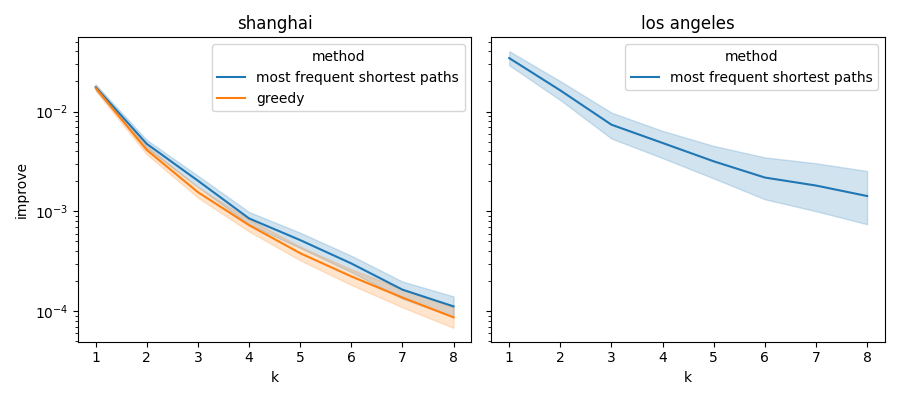
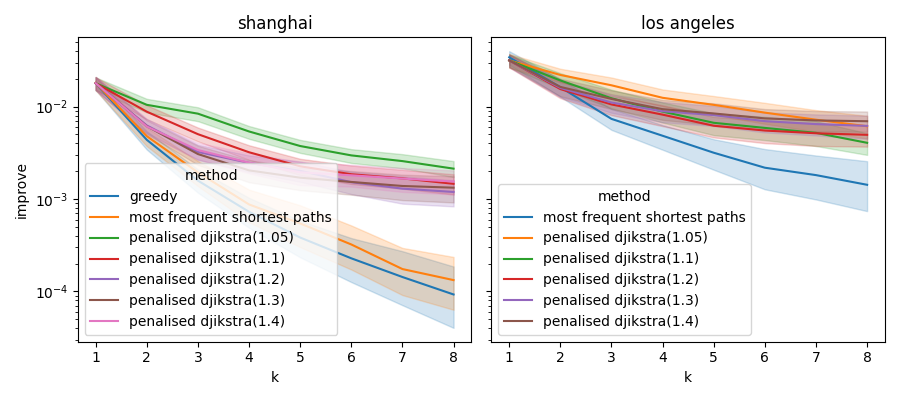
penalised djikstra

diff --git a/portfolio.py b/portfolio.py
@@ -171,15 +171,13 @@ class Portfolio:
         return pf
 
     @staticmethod
-    def greedy(graph: Graph, s, t, k=5, cache=CACHE):
+    def greedy(graph: Graph, s, t, k=5, cache=CACHE) -> Portfolio:
         METHOD = 'greedy'
         HASH = Portfolio._hash(Portfolio.greedy)
         cached = Portfolio._check_cache(graph, cache, METHOD, HASH, s, t, k, is_chain=True)
         if cached is not None:
             return cached
-        ps = []
-        for p in tqdm.tqdm(graph.my_all_paths(s, t)):
-            ps.append(p)
+        ps = list(graph.nx_all_paths(s, t))
         all_path_portfolio = Portfolio(graph, s, t, ps)
         all_path_costs = all_path_portfolio.costs()
         opt = all_path_costs.min(axis=1).mean()
@@ -213,6 +211,27 @@ class Portfolio:
         pf._to_cache(cache=cache)
         return pf
 
+    @staticmethod
+    def penalised_djikstra(graph: Graph, s, t, penalty=1.2, k=5, cache=CACHE) -> Portfolio:
+        METHOD = f'penalised djikstra({penalty})'
+        HASH = Portfolio._hash(Portfolio.penalised_djikstra)
+        cached = Portfolio._check_cache(graph, cache, METHOD, HASH, s, t, k, is_chain=True)
+        if cached is not None:
+            return cached
+        penalties = np.ones(graph.weights.shape[1])
+        portfolio = []
+        infos = []
+        for _ in range(k):
+            d, path = graph.djikstra(s, t, path=True, instance=None, penalties=penalties)
+            portfolio.append(path)
+            infos.append(f'{d:.3f}')
+            penalties[Path.to_integers(path)] *= penalty
+
+        pf = Portfolio(graph, s, t, portfolio, method=METHOD, infos=infos)
+        pf._impl_hash = HASH
+        pf._to_cache(cache=cache)
+        return pf
+
 if __name__ == "__main__":
     g = Graph.load(city='la')
 
@@ -232,7 +251,7 @@ if __name__ == "__main__":
     random.seed(55)
     print('='*50)
     done = set()
-    pbar = tqdm.tqdm(range(500))
+    pbar = tqdm.tqdm(range(1000))
     for i in pbar:
         u, v = 0, 0
         while (u == v) or (u, v) in done or g.djikstra(u, v) > 1e8:
@@ -242,7 +261,15 @@ if __name__ == "__main__":
         pbar.write(f'{u}-{v}', end=', ' if (i+1) % 10 != 0 else '\n')
         for k in range(8, 0, -1):
             # Portfolio.greedy(g, u, v, k=k, cache='./cache/random_pairs/')
-            Portfolio.most_frequent(g, u, v, k=k, cache='./cache/random_pairs/')
+            mf = Portfolio.most_frequent(g, u, v, k=k, cache='./cache/random_pairs/')
+            for lmb in [1.05, 1.1, 1.2, 1.3, 1.4]:
+                dj = Portfolio.penalised_djikstra(g, u, v, penalty=lmb, k=k, cache='./cache/random_pairs/')
+                dj.score()
+                dj._opt = mf._opt
+                dj._to_cache(cache="./cache/random_pairs/")
 
         done.add((u, v))
+
+    p = Portfolio.penalised_djikstra(g, 37, 17)
+    print(p)
 

diff --git a/graph.py b/graph.py
@@ -24,6 +24,7 @@ class Graph:
         self.out_arcs = [] # list of outgoing arcs (a in 0...m-1)
         self.in_arcs = []
         self.name = None
+        self.w_mean = None
 
     def build_out_in(self):
         self.out_arcs = []
@@ -53,6 +54,11 @@ class Graph:
     def __repr__(self):
         return f'<{self.__class__.__name__}({self.n}, {self.m}) at {hex(id(self))}>'
 
+    def mean_weights(self):
+        if self.w_mean is None:
+            self.w_mean = self.weights.mean()
+        return self.w_mean
+
     def floyd_warshall(self, instances='all'):
         if instances == 'all':
             distance = np.zeros((self.I, self.n, self.n))
@@ -77,9 +83,10 @@ class Graph:
 
         return distance
 
-    def djikstra(self, s, t=None, instance=0, path=False):
+    def djikstra(self, s, t=None, instance=0, path=False, penalties=None):
         """ returns distance array from s, if no t given, other wise dist(s, t)
-            if path is True it returns tuple with path(s) 
+            if path is True it returns tuple with path(s)
+            if instance = None is passed it takes the average weight
         """
         heap = heapdict()
         found = set()
@@ -112,7 +119,12 @@ class Graph:
                 neighbour = self.arcs[a][1]
                 if neighbour in found:
                     continue
-                w = self.weights.loc[instance, a]
+                if instance is None:
+                    w = self.mean_weights()[a]
+                else:
+                    w = self.weights.loc[instance, a]
+                if penalties is not None:
+                    w *= penalties[a]
 
                 if neighbour not in heap or heap[neighbour] > d + w:
                     heap[neighbour] = d + w

diff --git a/ratios.py b/ratios.py
@@ -5,16 +5,19 @@ import matplotlib.pyplot as plt
 if __name__ == "__main__":
     f, axs = plt.subplots(ncols=2, figsize=(9, 4), sharey=True, layout='tight')
     sh_rp = pd.read_csv('./cache/random_pairs/sh_portfolios.csv', index_col=0)
-    sh_rp.sort_values('method', ascending=False, inplace=True)
+    sh_rp.sort_values('method', inplace=True)
+    # sh_rp=sh_rp[sh_rp['method'] != 'greedy']
     # rp = pd.read_csv('./cache/sh_portfolios.csv', index_col=0)
     sh_rp['improve'] = sh_rp['factor'] - 1
     sns.lineplot(sh_rp, x='k', y='improve', hue='method', errorbar='ci', ax=axs[0])
+    # sns.lineplot(sh_rp, x='k', y='cost', hue='method', errorbar='ci', ax=axs[0])
     # axs[0].set_yscale('log')
     axs[0].set_title('shanghai')
     la_rp = pd.read_csv('./cache/random_pairs/la_portfolios.csv', index_col=0)
     # rp = pd.read_csv('./cache/sh_portfolios.csv', index_col=0)
     la_rp['improve'] = la_rp['factor'] - 1
     sns.lineplot(la_rp, x='k', y='improve', hue='method', errorbar='ci', ax=axs[1])
+    # sns.lineplot(la_rp, x='k', y='cost', hue='method', errorbar='ci', ax=axs[1])
     axs[1].set_yscale('log')
     axs[1].set_title('los angeles')
     plt.savefig('sh_la_ratios.png')
